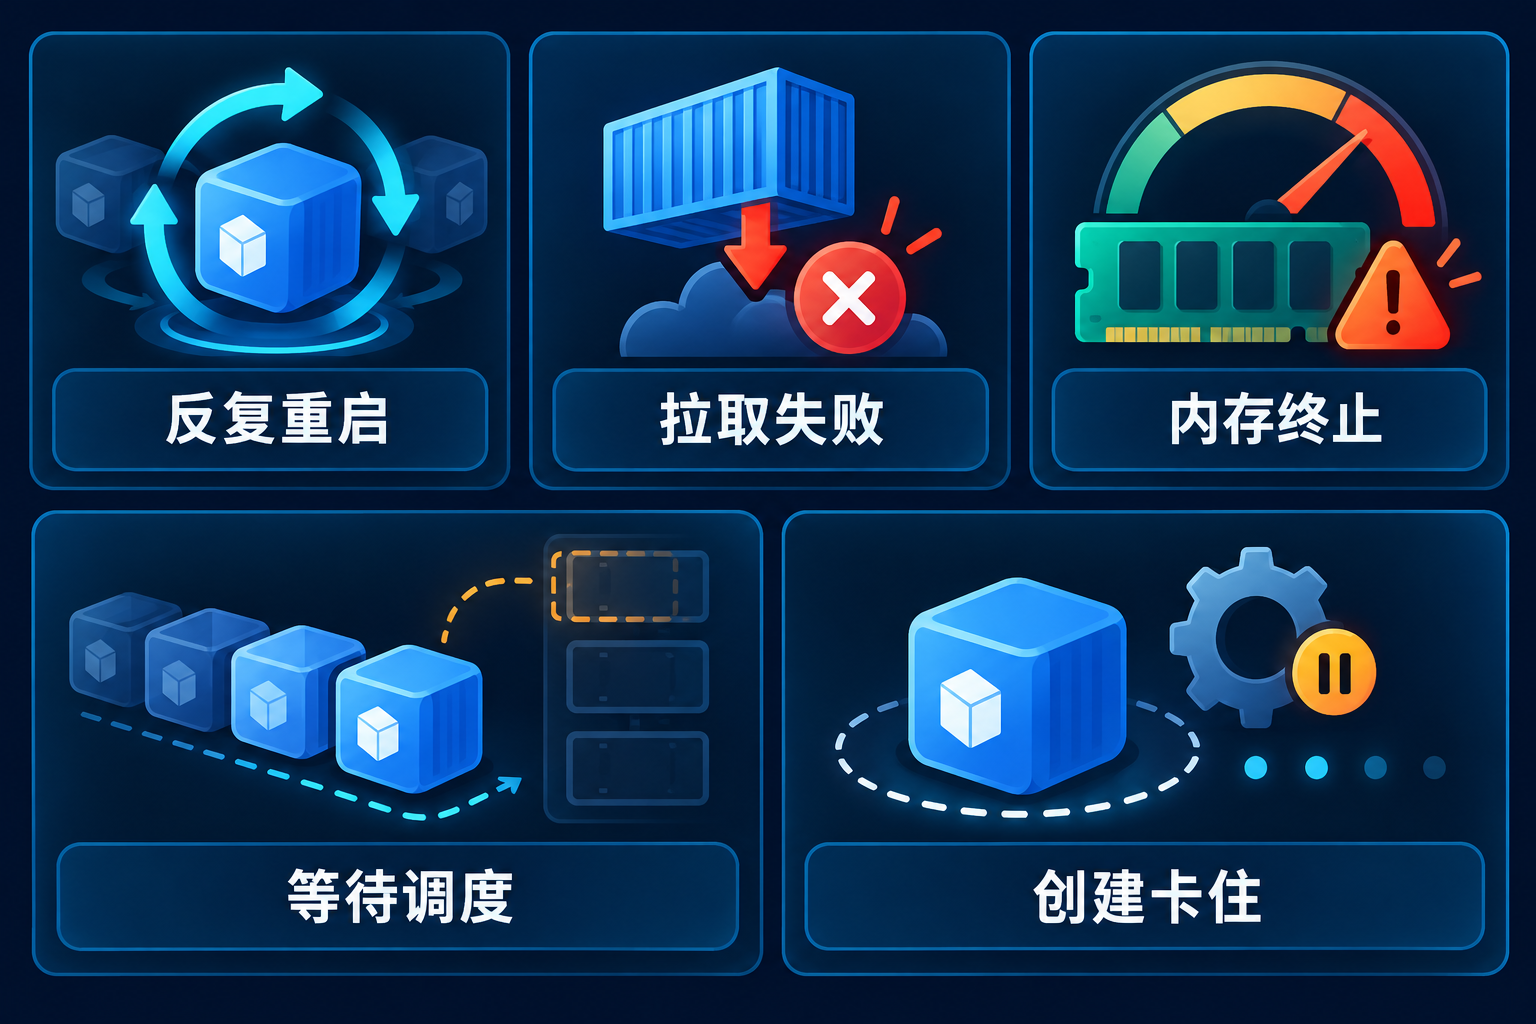
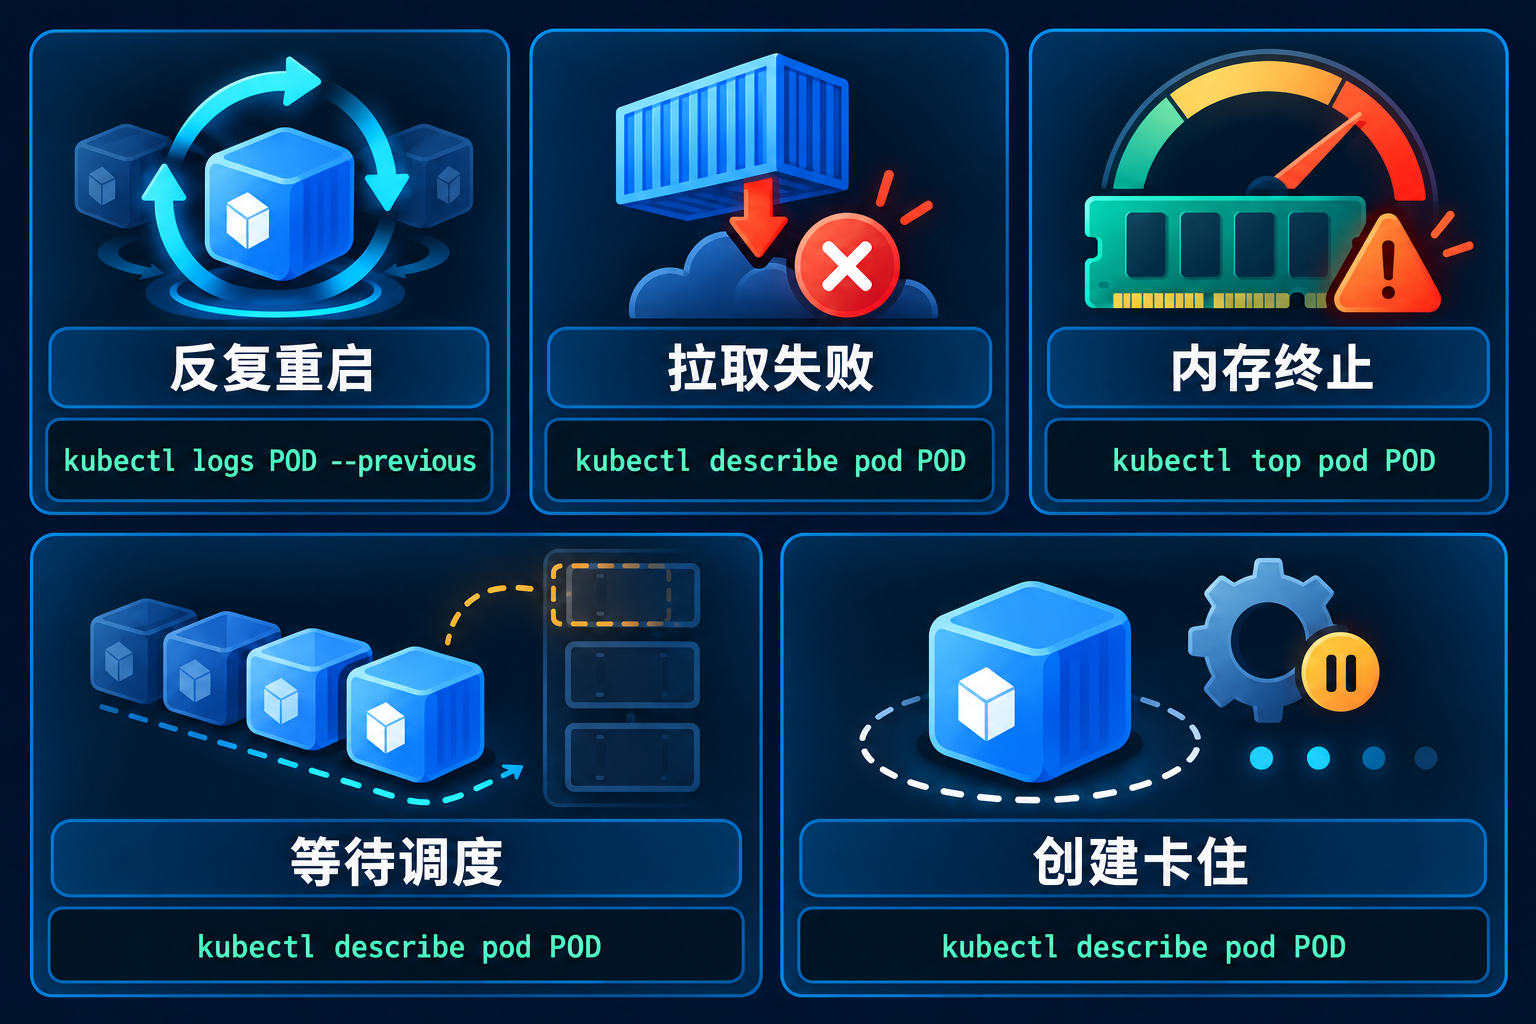
为 K8s 故障排查配图补充命令

diff --git a/微信文章/K8s故障排查手册Pod崩溃镜像拉取失败网络不通.md b/微信文章/K8s故障排查手册Pod崩溃镜像拉取失败网络不通.md
@@ -4,7 +4,7 @@
 
 我会先确定故障卡在哪一层，再决定下一条命令。顺序固定：**看状态 → 看事件 → 看日志 → 看连接 → 看资源**。如果在前两步已经找到明确原因，就不用把后面的命令机械地跑一遍。
 
-> 文中的 `<ns>`、`<pod>`、`<svc>` 等是占位符，执行前要换成集群里的实际名称。
+> 文中的 `<ns>`、`<pod>`、`<svc>` 等是占位符。配图里的 `POD`、`URL`、`ING`、`SVC`、`NODE` 也分别代表 Pod 名、访问地址、Ingress 名、Service 名和节点名；执行命令前要换成实际值。
 
 ## 先把故障缩小到一个对象
 
